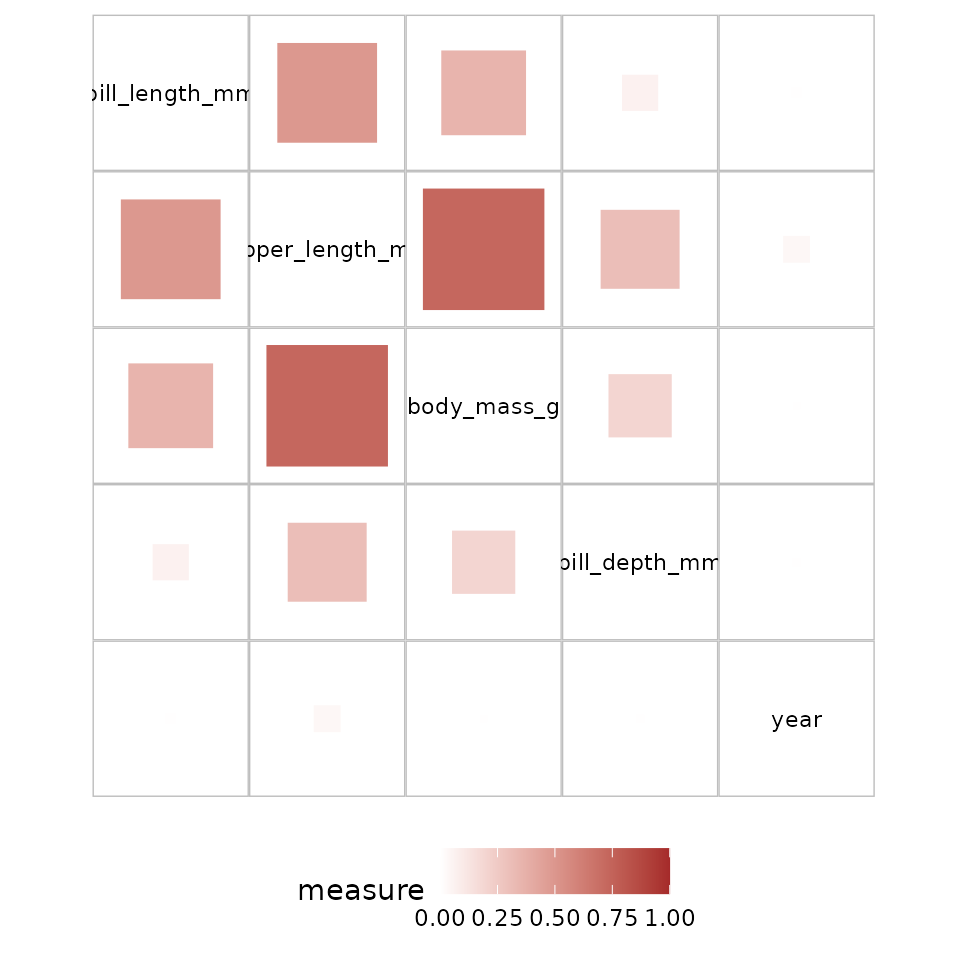
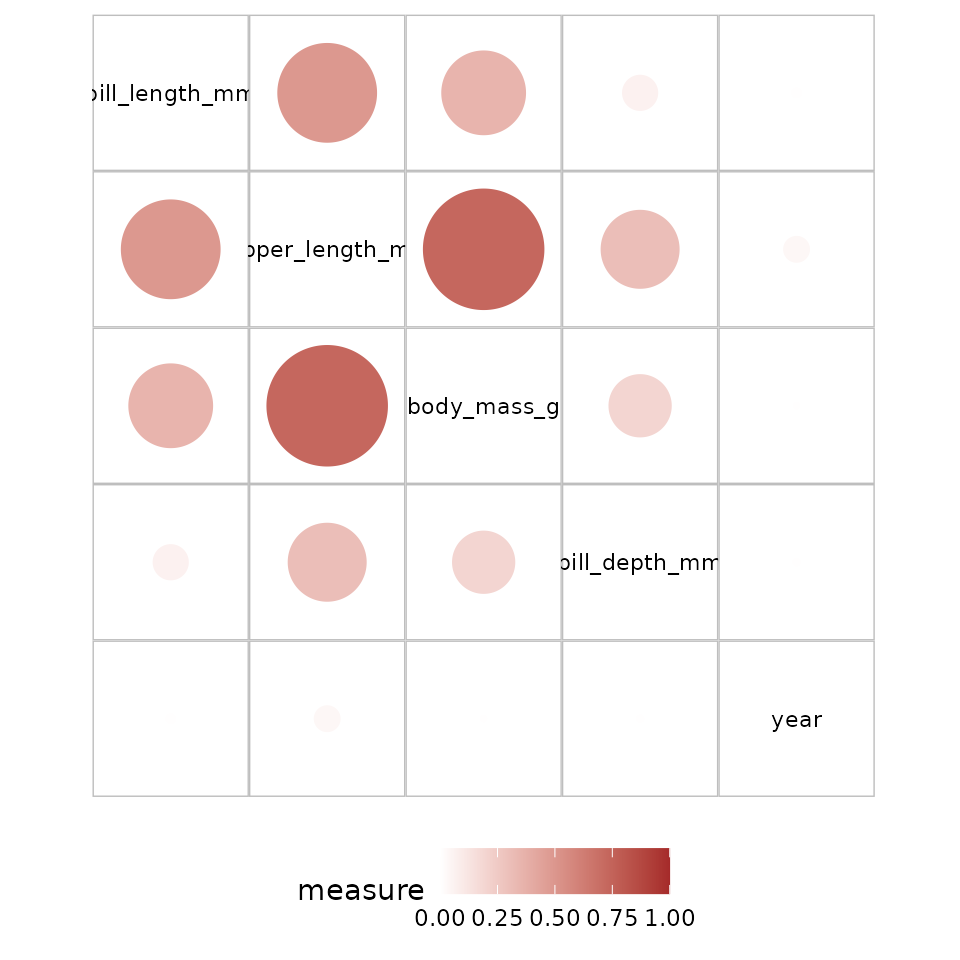
Deploying to gh-pages from @ chinwan16/corVis@cfe303ae22f385792c8ab30ac6fb8c9a14f0afb1 🚀

diff --git a/articles/integrating_corVis.html b/articles/integrating_corVis.html
@@ -86,7 +86,7 @@
                         <h4 data-toc-skip class="author">Amit Chinwan
 and Catherine Hurley</h4>
             
-            <h4 data-toc-skip class="date">2023-03-22</h4>
+            <h4 data-toc-skip class="date">2023-03-24</h4>
       
       
       <div class="hidden name"><code>integrating_corVis.Rmd</code></div>
@@ -450,13 +450,13 @@ a network display as shown in Figure 2.</p>
 <span><span class="co">## Number of couples: 28 </span></span>
 <span><span class="co">## Number of observations: 344 </span></span>
 <span><span class="co">## Coef.: pearson, spearman, kendall, mic, MaxNMI</span></span>
-<span><span class="co">## Start time: 2023-03-22 16:54:42 </span></span>
-<span><span class="co">## Correlation coef. computation finished: 2023-03-22 16:54:45</span></span></code></pre>
+<span><span class="co">## Start time: 2023-03-24 11:28:35 </span></span>
+<span><span class="co">## Correlation coef. computation finished: 2023-03-24 11:28:39</span></span></code></pre>
 <div class="sourceCode" id="cb4"><pre class="downlit sourceCode r">
 <code class="sourceCode R"><span><span class="fu"><a href="https://rdrr.io/pkg/linkspotter/man/linkspotterGraph.html" class="external-link">linkspotterGraph</a></span><span class="op">(</span>corDF <span class="op">=</span> <span class="va">corCouples</span>, corMethod <span class="op">=</span> <span class="st">"pearson"</span>, smoothEdges <span class="op">=</span> <span class="cn">FALSE</span>, </span>
 <span>  dynamicNodes <span class="op">=</span> <span class="cn">FALSE</span><span class="op">)</span></span></code></pre></div>
-<div id="htmlwidget-258ebb4c220182416067" style="width:100%;height:100%;" class="visNetwork html-widget "></div>
-<script type="application/json" data-for="htmlwidget-258ebb4c220182416067">{"x":{"nodes":{"id":["species","island","bill_length_mm","bill_depth_mm","flipper_length_mm","body_mass_g","sex","year"],"label":["species","island","bill_length_mm","bill_depth_mm","flipper_length_mm","body_mass_g","sex","year"],"title":["species","island","bill_length_mm","bill_depth_mm","flipper_length_mm","body_mass_g","sex","year"]},"edges":{"id":["15","16","19","20","23"],"from":["bill_length_mm","bill_length_mm","bill_depth_mm","bill_depth_mm","flipper_length_mm"],"to":["flipper_length_mm","body_mass_g","flipper_length_mm","body_mass_g","body_mass_g"],"typeOfCouple":["num.num","num.num","num.num","num.num","num.num"],"pearson":[0.656181340746428,0.59510982443763,-0.583851216465413,-0.471915621186067,0.871201767306011],"spearman":[0.672771941625554,0.583800319445548,-0.523267471161074,-0.432372221413044,0.8399741230313],"kendall":[0.483345441762745,0.433359178368938,-0.281894499346629,-0.195069846128774,0.660467495345973],"mic":[0.483850848406702,0.392274673666884,0.659988830906406,0.518085006394912,0.694241372377172],"MaxNMI":[0.277196195251305,0.242222561231358,0.363633947863205,0.352718792752059,0.416165430100181],"correlationType":["positive","positive","negative","negative","positive"],"value":[0.656181340746428,0.59510982443763,0.583851216465413,0.471915621186067,0.871201767306011],"title":["pearson: 0.66","pearson: 0.60","pearson: -0.58","pearson: -0.47","pearson: 0.87"]},"nodesToDataframe":true,"edgesToDataframe":true,"options":{"width":"100%","height":"100%","nodes":{"shape":"dot"},"manipulation":{"enabled":false},"edges":{"smooth":false}},"groups":null,"width":"100%","height":"100%","idselection":{"enabled":false},"byselection":{"enabled":false},"main":null,"submain":null,"footer":null,"background":"rgba(0, 0, 0, 0)","events":{"stabilizationIterationsDone":"function () {this.setOptions( { physics: false } );}"}},"evals":["events.stabilizationIterationsDone"],"jsHooks":[]}</script><div class="sourceCode" id="cb5"><pre class="downlit sourceCode r">
+<div id="htmlwidget-7bceed1652b8473186fd" style="width:100%;height:100%;" class="visNetwork html-widget "></div>
+<script type="application/json" data-for="htmlwidget-7bceed1652b8473186fd">{"x":{"nodes":{"id":["species","island","bill_length_mm","bill_depth_mm","flipper_length_mm","body_mass_g","sex","year"],"label":["species","island","bill_length_mm","bill_depth_mm","flipper_length_mm","body_mass_g","sex","year"],"title":["species","island","bill_length_mm","bill_depth_mm","flipper_length_mm","body_mass_g","sex","year"]},"edges":{"id":["15","16","19","20","23"],"from":["bill_length_mm","bill_length_mm","bill_depth_mm","bill_depth_mm","flipper_length_mm"],"to":["flipper_length_mm","body_mass_g","flipper_length_mm","body_mass_g","body_mass_g"],"typeOfCouple":["num.num","num.num","num.num","num.num","num.num"],"pearson":[0.656181340746428,0.59510982443763,-0.583851216465413,-0.471915621186067,0.871201767306011],"spearman":[0.672771941625554,0.583800319445548,-0.523267471161074,-0.432372221413044,0.8399741230313],"kendall":[0.483345441762745,0.433359178368938,-0.281894499346629,-0.195069846128774,0.660467495345973],"mic":[0.483850848406702,0.392274673666884,0.659988830906406,0.518085006394912,0.694241372377172],"MaxNMI":[0.277196195251305,0.242222561231358,0.363633947863205,0.352718792752059,0.416165430100181],"correlationType":["positive","positive","negative","negative","positive"],"value":[0.656181340746428,0.59510982443763,0.583851216465413,0.471915621186067,0.871201767306011],"title":["pearson: 0.66","pearson: 0.60","pearson: -0.58","pearson: -0.47","pearson: 0.87"]},"nodesToDataframe":true,"edgesToDataframe":true,"options":{"width":"100%","height":"100%","nodes":{"shape":"dot"},"manipulation":{"enabled":false},"edges":{"smooth":false}},"groups":null,"width":"100%","height":"100%","idselection":{"enabled":false},"byselection":{"enabled":false},"main":null,"submain":null,"footer":null,"background":"rgba(0, 0, 0, 0)","events":{"stabilizationIterationsDone":"function () {this.setOptions( { physics: false } );}"}},"evals":["events.stabilizationIterationsDone"],"jsHooks":[]}</script><div class="sourceCode" id="cb5"><pre class="downlit sourceCode r">
 <code class="sourceCode R"><span><span class="va">nw_corVis</span> <span class="op">&lt;-</span> <span class="kw">function</span><span class="op">(</span><span class="va">assoc</span><span class="op">)</span><span class="op">{</span></span>
 <span>  <span class="va">assoc</span> <span class="op">&lt;-</span> <span class="fu"><a href="../reference/sym_assoc.html">sym_assoc</a></span><span class="op">(</span><span class="va">assoc</span><span class="op">)</span></span>
 <span>  <span class="va">graph</span> <span class="op">&lt;-</span> <span class="fu"><a href="https://rdrr.io/pkg/igraph/man/graph_from_data_frame.html" class="external-link">graph_from_data_frame</a></span><span class="op">(</span><span class="va">assoc</span><span class="op">)</span></span>

diff --git a/reference/plot_assoc_matrix.html b/reference/plot_assoc_matrix.html
@@ -69,7 +69,7 @@
     <div class="sourceCode"><pre class="sourceCode r"><code><span><span class="fu">plot_assoc_matrix</span><span class="op">(</span></span>
 <span>  <span class="va">lassoc</span>,</span>
 <span>  uassoc <span class="op">=</span> <span class="cn">NULL</span>,</span>
-<span>  glyph <span class="op">=</span> <span class="fu"><a href="https://rdrr.io/r/base/c.html" class="external-link">c</a></span><span class="op">(</span><span class="st">"square"</span>, <span class="st">"circle"</span><span class="op">)</span>,</span>
+<span>  glyph <span class="op">=</span> <span class="fu"><a href="https://rdrr.io/r/base/c.html" class="external-link">c</a></span><span class="op">(</span><span class="st">"circle"</span>, <span class="st">"square"</span><span class="op">)</span>,</span>
 <span>  var_order <span class="op">=</span> <span class="st">"default"</span>,</span>
 <span>  limits <span class="op">=</span> <span class="fu"><a href="https://rdrr.io/r/base/c.html" class="external-link">c</a></span><span class="op">(</span><span class="op">-</span><span class="fl">1</span>, <span class="fl">1</span><span class="op">)</span></span>
 <span><span class="op">)</span></span></code></pre></div>
@@ -88,7 +88,7 @@ Must be of class <code>pairwise</code>, <code>cond_pairwise</code> or <code>mult
 
 
 <dt>glyph</dt>
-<dd><p>A character string for the glyph to be used for lassoc with "pairwise" class. Either "square" or "circle".</p></dd>
+<dd><p>A character string for the glyph to be used for lassoc with "pairwise" class. Either "circle" (default) or "square".</p></dd>
 
 
 <dt>var_order</dt>
@@ -110,6 +110,7 @@ using Dendser or a user provided variable order.</p></dd>
     <div id="ref-examples">
     <h2>Examples</h2>
     <div class="sourceCode"><pre class="sourceCode r"><code><span class="r-in"><span><span class="fu">plot_assoc_matrix</span><span class="op">(</span><span class="fu"><a href="calc_assoc.html">calc_assoc</a></span><span class="op">(</span><span class="va">iris</span><span class="op">)</span><span class="op">)</span></span></span>
+<span class="r-wrn co"><span class="r-pr">#&gt;</span> <span class="warning">Warning: </span>Removed 5 rows containing non-finite values (`stat_circle()`).</span>
 <span class="r-wrn co"><span class="r-pr">#&gt;</span> <span class="warning">Warning: </span>Removed 20 rows containing missing values (`geom_text()`).</span>
 <span class="r-plt img"><img src="plot_assoc_matrix-1.png" alt="" width="700" height="433"></span>
 <span class="r-in"><span><span class="fu">plot_assoc_matrix</span><span class="op">(</span><span class="fu"><a href="calc_assoc.html">calc_assoc</a></span><span class="op">(</span><span class="va">iris</span>,<span class="st">"Species"</span><span class="op">)</span><span class="op">)</span></span></span>

diff --git a/reference/calc_assoc_all.html b/reference/calc_assoc_all.html
@@ -114,7 +114,7 @@ can be updated to a subset of these measures.</p></dd>
 <span class="r-out co"><span class="r-pr">#&gt;</span> <span style="color: #BCBCBC;"> 8</span> Petal.Width  Petal.Length   0.963 cancor       nn       </span>
 <span class="r-out co"><span class="r-pr">#&gt;</span> <span style="color: #BCBCBC;"> 9</span> Species      Petal.Length   0.970 cancor       nf       </span>
 <span class="r-out co"><span class="r-pr">#&gt;</span> <span style="color: #BCBCBC;">10</span> Species      Petal.Width    0.964 cancor       nf       </span>
-<span class="r-out co"><span class="r-pr">#&gt;</span> <span style="color: #949494;"># … with 50 more rows</span></span>
+<span class="r-out co"><span class="r-pr">#&gt;</span> <span style="color: #949494;"># ℹ 50 more rows</span></span>
 </code></pre></div>
     </div>
   </div>

diff --git a/articles/calc_association.html b/articles/calc_association.html
@@ -639,7 +639,7 @@ is not defined is not included in the result.</p>
 <span><span class="co">## <span style="color: #BCBCBC;"> 8</span> bill_length_mm    island   0.392  cancor       nf       </span></span>
 <span><span class="co">## <span style="color: #BCBCBC;"> 9</span> bill_depth_mm     island   0.632  cancor       nf       </span></span>
 <span><span class="co">## <span style="color: #BCBCBC;">10</span> flipper_length_mm island   0.613  cancor       nf       </span></span>
-<span><span class="co">## <span style="color: #949494;"># … with 100 more rows</span></span></span></code></pre>
+<span><span class="co">## <span style="color: #949494;"># ℹ 100 more rows</span></span></span></code></pre>
 </div>
   </div>
 

diff --git a/articles/scagnostic_corVis.html b/articles/scagnostic_corVis.html
@@ -85,7 +85,7 @@ and corVis</h1>
                         <h4 data-toc-skip class="author">Amit Chinwan
 and Catherine Hurley</h4>
             
-            <h4 data-toc-skip class="date">2023-03-22</h4>
+            <h4 data-toc-skip class="date">2023-03-24</h4>
       
       
       <div class="hidden name"><code>scagnostic_corVis.Rmd</code></div>

diff --git a/articles/vis_association.html b/articles/vis_association.html
@@ -84,7 +84,7 @@
                         <h4 data-toc-skip class="author">Amit Chinwan
 and Catherine Hurley</h4>
             
-            <h4 data-toc-skip class="date">2023-03-22</h4>
+            <h4 data-toc-skip class="date">2023-03-24</h4>
       
       
       <div class="hidden name"><code>vis_association.Rmd</code></div>

diff --git a/articles/seriation.html b/articles/seriation.html
@@ -84,7 +84,7 @@
                         <h4 data-toc-skip class="author">Amit Chinwan
 and Catherine Hurley</h4>
             
-            <h4 data-toc-skip class="date">2023-03-22</h4>
+            <h4 data-toc-skip class="date">2023-03-24</h4>
       
       
       <div class="hidden name"><code>seriation.Rmd</code></div>
